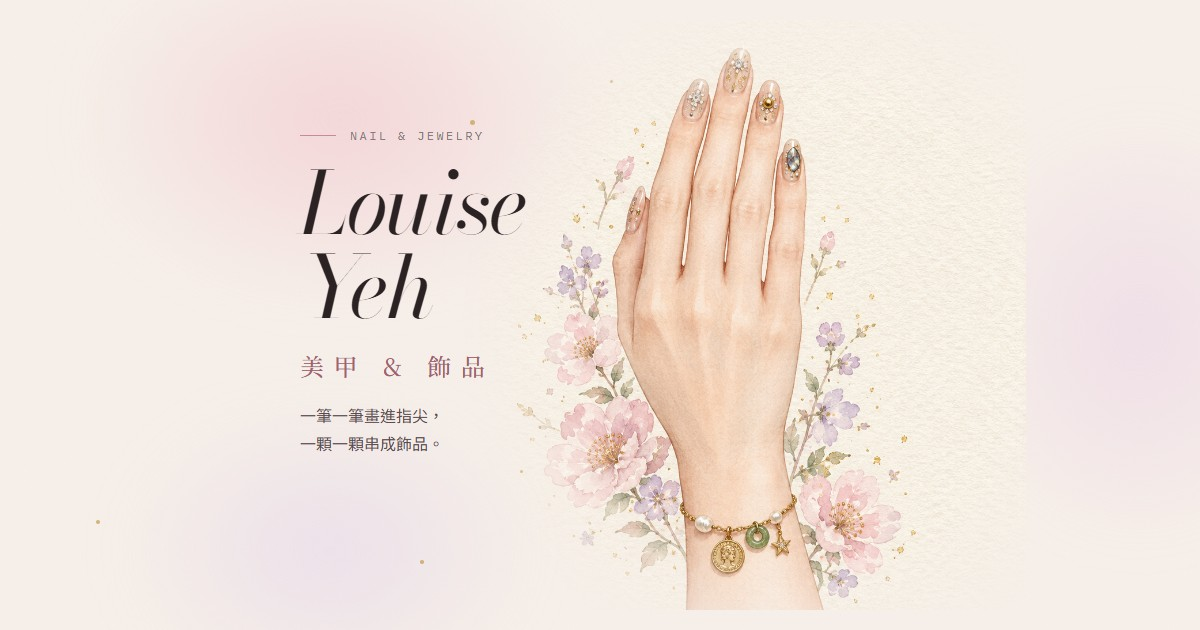
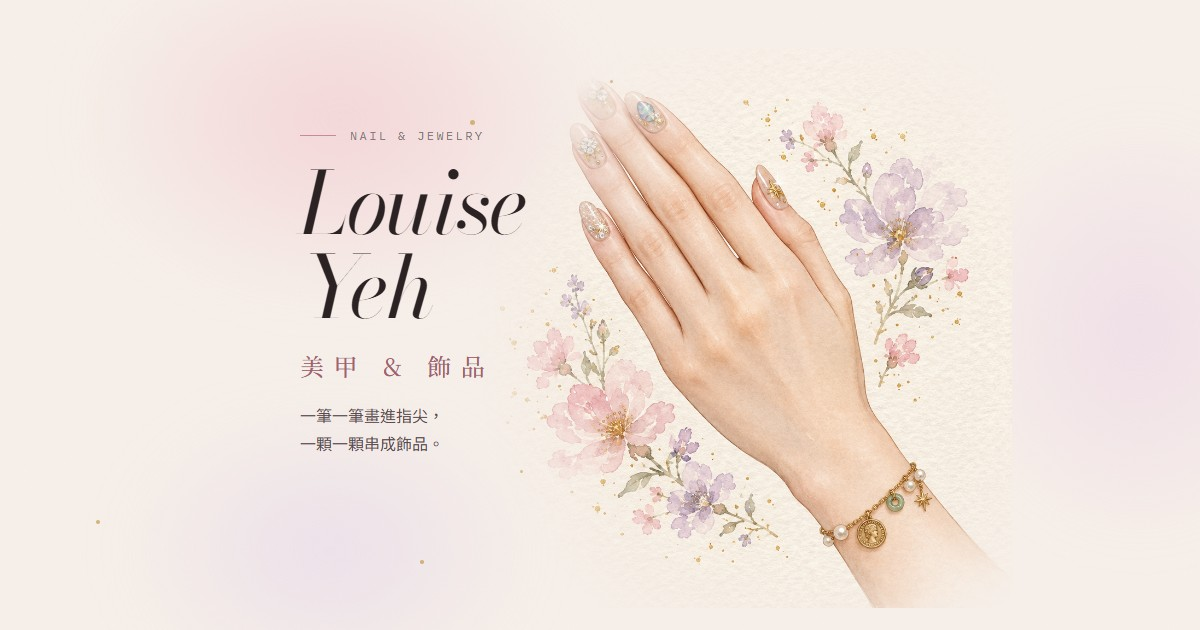
B版：分享縮圖手改成斜放（本機，未發佈）

Changed region(s): [[0.4317, 0.0905, 0.8325, 0.9651]]

diff --git a/index.html b/index.html
@@ -9,11 +9,11 @@
 <meta property="og:title" content="Louise Yeh 美甲 & 飾品創作">
 <meta property="og:description" content="把喜歡的顏色、圖案與小心意，一筆一筆畫進指尖，一顆一顆串成飾品。">
 <meta property="og:url" content="https://alicebibo.github.io/louise-yeh-nails/">
-<meta property="og:image" content="https://alicebibo.github.io/louise-yeh-nails/og-image.jpg?v=20261106h">
+<meta property="og:image" content="https://alicebibo.github.io/louise-yeh-nails/og-image.jpg?v=20261106i">
 <meta property="og:image:width" content="1200">
 <meta property="og:image:height" content="630">
 <meta name="twitter:card" content="summary_large_image">
-<meta name="twitter:image" content="https://alicebibo.github.io/louise-yeh-nails/og-image.jpg?v=20261106h">
+<meta name="twitter:image" content="https://alicebibo.github.io/louise-yeh-nails/og-image.jpg?v=20261106i">
 <link rel="preconnect" href="https://fonts.googleapis.com">
 <link rel="preconnect" href="https://fonts.gstatic.com" crossorigin>
 <link href="https://fonts.googleapis.com/css2?family=Bodoni+Moda:ital,opsz,wght@0,6..96,400;1,6..96,400;1,6..96,500&family=IBM+Plex+Mono:wght@400;500&family=Noto+Sans+TC:wght@400;500&family=Noto+Serif+TC:wght@500;700&display=swap" rel="stylesheet">
